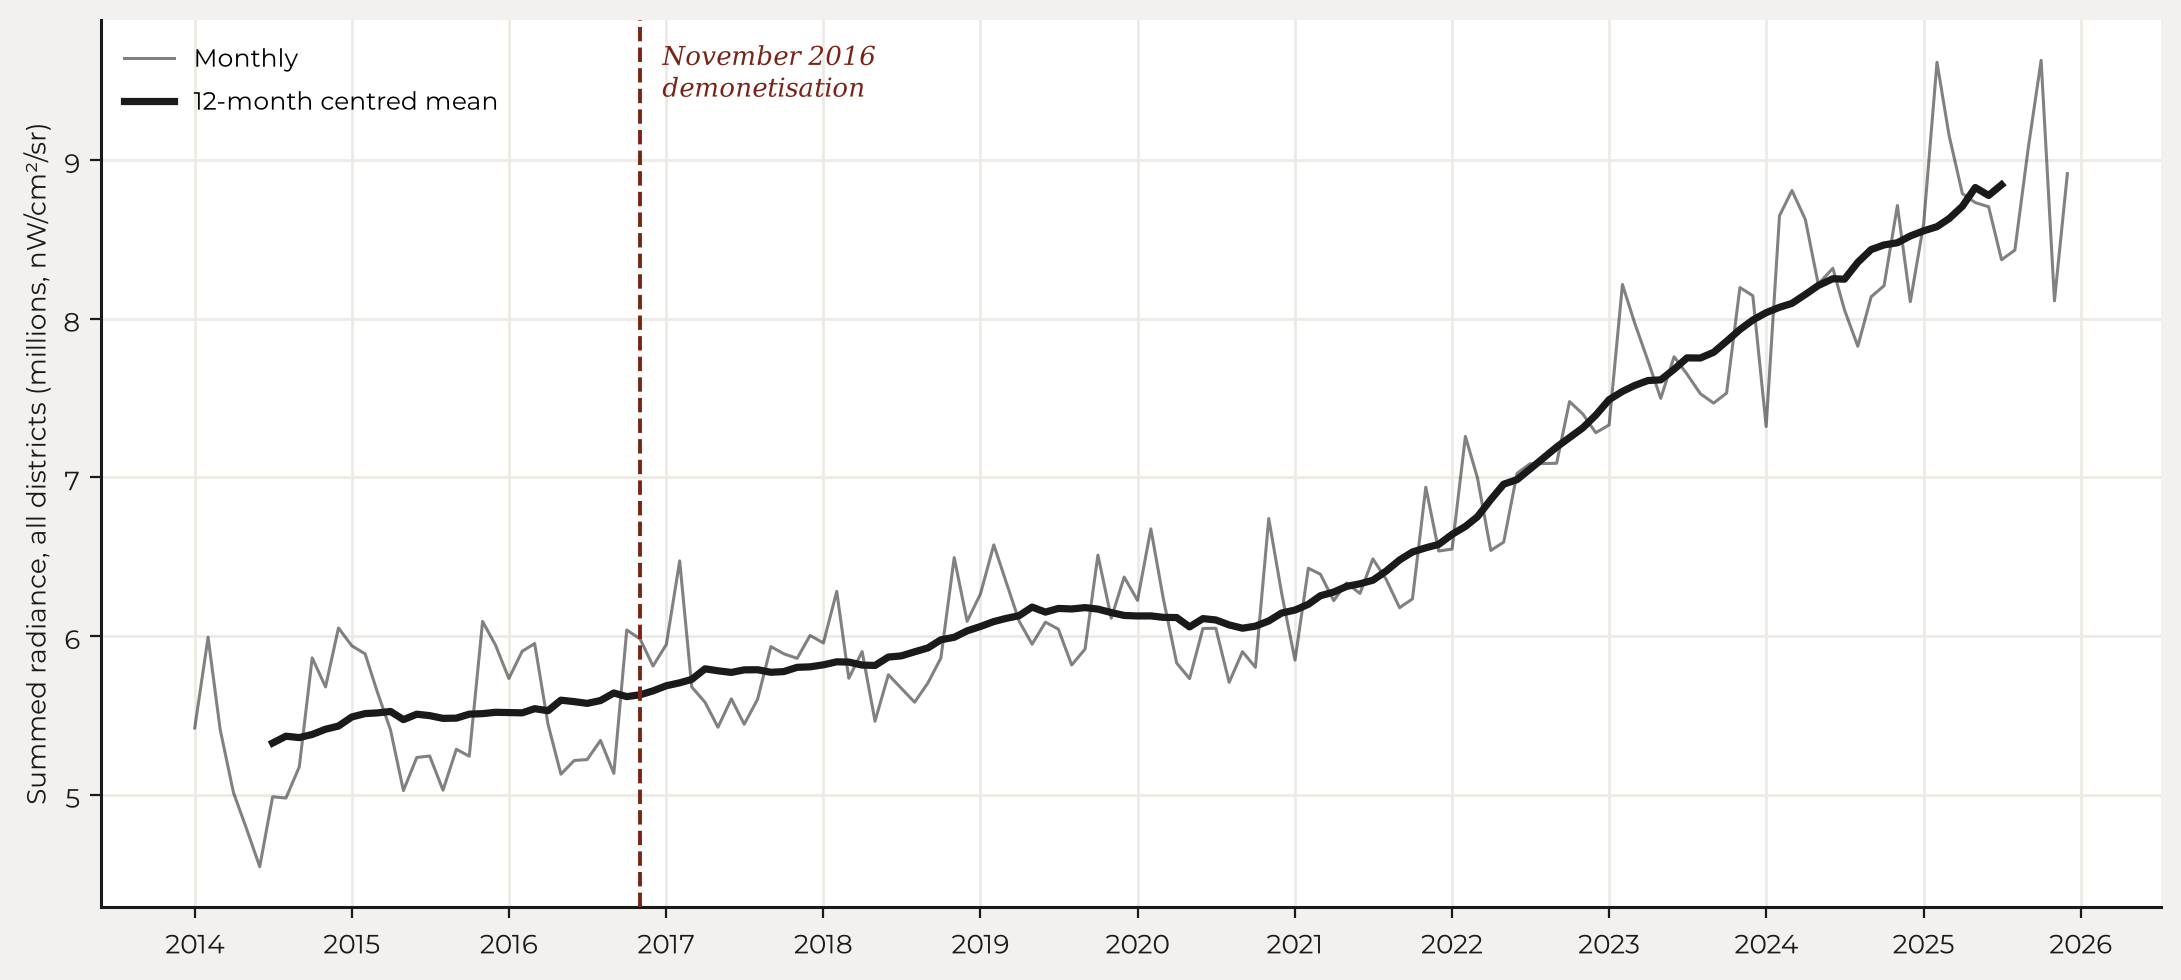
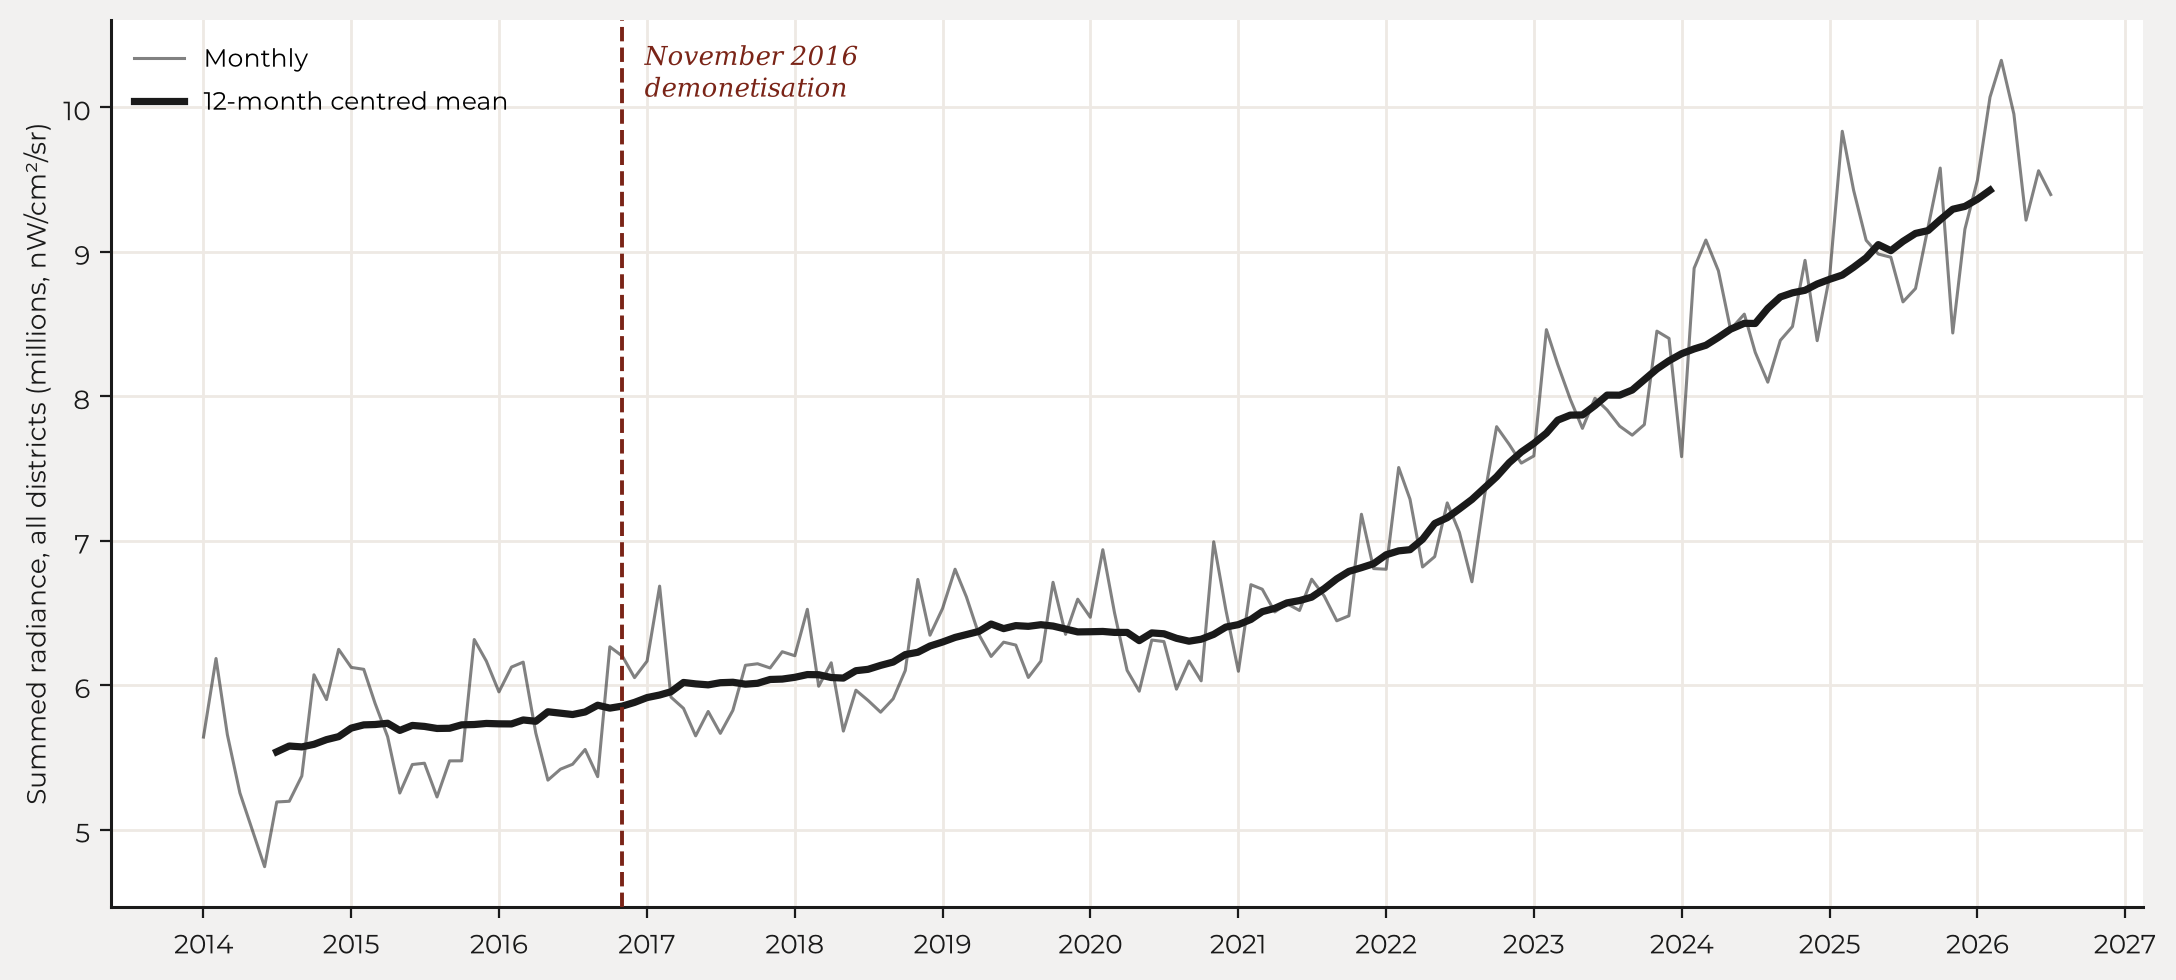
updated figures with new ntl csv

diff --git a/blog/article_current.html b/blog/article_current.html
@@ -20,11 +20,11 @@
 
 <p>The map below shows what this looks like across the country in 2021: building volume per square metre of footprint, district by district, which is a rough measure of how tall a district builds rather than how much of it is built on. The dense corridors are visible without any further processing.</p>
 
-<center><img src="figures/fig15c_district_coverage_bv_density.png" alt="Building density by district" width="700"><br><i>Building volume per square metre of footprint, 2021, for 640 of the 641 districts in the dataset.</i></center>
+<center><img src="figures/fig15c_district_coverage_bv_density.png" alt="Building density by district" width="700"><br><i>Building volume per square metre of footprint, 2021, for all 641 districts in the dataset.</i></center>
 
 <p>Construction is slow and cumulative, so this data moves gradually. It is less a snapshot of current activity, rather it is a record of investment: in housing, in industry, in commerce. We present the underlying data as published, without a separate cleaning pass.</p>
 
-<p>That means the oddities in it are visible too. Ordinarily, one should expect a measure like this to weakly rise monotonically, but we observe an across-the-board decline in building volume in 2022. Some districts show a precipitous single-year collapse in 2018: Kinnaur's building volume falls by almost 50% and Pithoragarh's by 20%, neither of which recovers. Others decline continuously over the whole period. Building volume is computed as the product of surface area and building height, the latter of which has a hard cap of 100m, cutting off taller structures. We are working on a bias correction, using known building heights as anchors for the distribution.</p>
+<p>That means the oddities in it are visible too. Ordinarily, one should expect a measure like this to weakly rise monotonically, but we observe an across-the-board decline in building volume in 2022. Some districts show a precipitous single-year collapse in 2018: Kinnaur's building volume falls by almost 50% and Pithoragarh's by 20%, neither of which recovers. Others decline continuously over the whole period. Building volume is computed as the product of surface area and building height, the latter of which has a hard cap of 100m, cutting off taller structures. We are working on a bias correction mechanism, using known building heights as anchors for the distribution.</p>
 
 <center><img src="figures/fig08b_bv_anomalies.png" alt="Anomalies in the building volume series" width="700"><br><i>Building volume for Pithoragarh and Kinnaur against the national total, indexed to 2016 = 100. The shaded years are 2018 and 2022; 94% of districts decline in 2022.</i></center>
 
@@ -40,7 +40,7 @@
 
 <p>The same districts and the same year as the building map earlier, now seen in radiance rather than in concrete. The bright regions match well, but not exactly, with the densely built ones&mdash;the Gangetic plain and the southern coasts&mdash;light up more than their building stock alone would suggest, and parts of the interior less. That gap is the whole reason for carrying both measures.</p>
 
-<center><img src="figures/fig15b_district_coverage_ntl.png" alt="Nighttime lights by district" width="700"><br><i>Mean radiance per pixel, 2021, for the same districts. Note that the scale runs the other way from the map above: here dark is dim, not dense.</i></center>
+<center><img src="figures/fig15b_district_coverage_ntl.png" alt="Nighttime lights by district" width="700"><br><i>Mean radiance per pixel, 2021, for 640 of the same 641 districts. Note that the scale runs the other way from the map above: here dark is dim, not dense.</i></center>
 
 <p>Lights respond much more quickly than buildings. They brighten as neighbourhoods become more active and dim when activity slows. If buildings measure accumulated capital, nighttime lights measure an economy in motion. One caveat: as household and street lighting shifts to LEDs, measured radiance can fall even where activity is rising, because LEDs emit less in the band VIIRS is sensitive to (Kyba et al., 2017). A dimmer district is not necessarily a slower one. Gibson, Olivia and Boe-Gibson (2020) survey this and the other traps in the economic use of nighttime lights, and are worth reading before treating radiance as a direct indicator of output.</p>
 
@@ -50,7 +50,7 @@
 
 <h3>Reading them together</h3>
 
-<p>Each dataset answers a straightforward question on its own. Together they answer a more useful one. Where building volume and lights are both climbing, a district is likely in the midst of genuine, sustained growth. If construction is rising but lights remain flat, in indicates new capacity  being built ahead of actual use: possibly the shrewd foresight of planners anticipating development, or, at the other extreme, a ghost town left behind by overestimating demand.</p>
+<p>Each dataset answers a straightforward question on its own. Together they answer a more useful one. Where building volume and lights are both climbing, a district is likely in the midst of genuine, sustained growth. If construction is rising but lights remain flat, it indicates new capacity being built ahead of actual use: possibly the shrewd foresight of planners anticipating development, or, at the other extreme, a ghost town left behind by overestimating demand.</p>
 
 <p>Where lights rise with little new construction, existing capital might be used more intensively, rather than the district expanding outward. That points to constrained resources, limited confidence in long-term growth, or simply a choice to extract more from what is already there.</p>
 
@@ -60,15 +60,15 @@
 
 <center><img src="figures/fig04_disagreements_6panel.png" alt="The six districts where the two measures disagree most" width="700"><br><i>The six largest disagreements between the two measures, 2016-2023, each indexed to 2016. In every one, measured capital falls while activity brightens.</i></center>
 
-<p>Sorting every district on both axes gives nine combinations of rising, flat and falling volume and lights. The chart below shows the starkest district in each: Wayanad, where building volume and lights climbed together; Pithoragarh, where both fell; West Garo Hills, where construction ran ahead of measured activity; and so on through the remaining six.</p>
+<p>Sorting every district on both axes gives nine combinations of rising, flat and falling volume and lights, of which eight are occupied: no district builds while its lights dim. The chart below shows the starkest district in each: Wayanad, where building volume and lights climbed together; Pithoragarh, where both fell; Lucknow, where construction ran ahead of measured activity; and so on through the remaining five.</p>
 
-<center><img src="figures/fig01b_stark_grid_recomputed.png" alt="Building volume and lights trends for the starkest district in each of nine categories" width="700"><br><i>Building volume and nighttime lights, indexed to 2016, for the starkest district in each of the nine combinations.</i></center>
+<center><img src="figures/fig01b_stark_grid_recomputed.png" alt="Building volume and lights trends for the starkest district in each of eight categories" width="700"><br><i>Building volume and nighttime lights, indexed to 2016, for the starkest district in each of the eight occupied combinations.</i></center>
 
 <h3>Getting the data</h3>
 
 <p>We built this dataset to make these kinds of questions easier to ask, at a scale India's official statistics don't reach: the district, updated annually or monthly instead of once a decade. Beyer, Chhabra, Galdo and Rama (2018) showed what that resolution buys: working with cleaned VIIRS at the district level, they traced the effect of demonetisation on Indian districts month by month, an episode that state-level annual data would have largely smoothed away. Seth, Singh and Uday (2026) go finer still: working with building volume inside urban local body boundaries in Karnataka, and find that the summed building volume of a body explains much of the variation in property tax demand, a satellite measure becoming a way for municipalities to verify what they report about themselves. Our dataset should be useful to researchers working on regional inequality, urbanisation and the geography of growth, and to anyone in government trying to keep track of places where the usual numbers arrive too late (if at all).</p>
 
-<p>Economic development leaves visible traces on the landscape long before it reaches the statistical system. Our hope is that this dataset makes them usable. The processing pipeline is public and runs end to end in two Colab notebooks, one for <a href="https://colab.research.google.com/github/xKDR/India-Built-and-Lit/blob/main/building_volume.ipynb">building volume</a> and one for <a href="https://colab.research.google.com/github/xKDR/India-Built-and-Lit/blob/main/nighttime_lights.ipynb">nighttime lights</a>, with the cleaned outputs also available as CSVs (<a href="https://xkdr.github.io/India-Built-and-Lit/data/bv_annual.csv">BV</a>, <a href="https://xkdr.github.io/India-Built-and-Lit/data/viirs_monthly.csv">NL</a>, and <a href="https://xkdr.github.io/India-Built-and-Lit/data/districts_simplified.geojson">district bounds</a>). Swap the geography to point it at a different country or a different administrative boundary, and the pipelines will cooperate.</p>
+<p>Economic development leaves visible traces on the landscape long before it reaches official databases. Our hope is that this dataset makes them usable. The data is available as CSVs (<a href="https://xkdr.github.io/India-Built-and-Lit/data/bv_annual.csv">BV</a>, <a href="https://xkdr.github.io/India-Built-and-Lit/data/viirs_monthly.csv">NL</a>, and <a href="https://xkdr.github.io/India-Built-and-Lit/data/districts_simplified.geojson">district bounds</a>). The processing pipeline is public and runs end to end in two Colab notebooks, one for <a href="https://colab.research.google.com/github/xKDR/India-Built-and-Lit/blob/main/building_volume.ipynb">building volume</a> and one for <a href="https://colab.research.google.com/github/xKDR/India-Built-and-Lit/blob/main/nighttime_lights.ipynb">nighttime lights</a>. Note that the provided nightlights CSV was computed at native resolution, while the notebook downsamples to remain within colab's usage limits. Swap the geography to point it at a different country or a different administrative boundary, and the pipelines will cooperate.</p>
 
 <h3>Bibliography</h3>
 

diff --git a/blog/article_current.md b/blog/article_current.md
@@ -20,11 +20,11 @@ The map below shows what this looks like across the country in 2021: building vo
 
 ![Building density by district](figures/fig15c_district_coverage_bv_density.png)
 
-*Building volume per square metre of footprint, 2021, for 640 of the 641 districts in the dataset.*
+*Building volume per square metre of footprint, 2021, for all 641 districts in the dataset.*
 
 Construction is slow and cumulative, so this data moves gradually. It is less a snapshot of current activity, rather it is a record of investment: in housing, in industry, in commerce. We present the underlying data as published, without a separate cleaning pass.
 
-That means the oddities in it are visible too. Ordinarily, one should expect a measure like this to weakly rise monotonically, but we observe an across-the-board decline in building volume in 2022. Some districts show a precipitous single-year collapse in 2018: Kinnaur's building volume falls by almost 50% and Pithoragarh's by 20%, neither of which recovers. Others decline continuously over the whole period. Building volume is computed as the product of surface area and building height, the latter of which has a hard cap of 100m, cutting off taller structures. We are working on a bias correction, using known building heights as anchors for the distribution.
+That means the oddities in it are visible too. Ordinarily, one should expect a measure like this to weakly rise monotonically, but we observe an across-the-board decline in building volume in 2022. Some districts show a precipitous single-year collapse in 2018: Kinnaur's building volume falls by almost 50% and Pithoragarh's by 20%, neither of which recovers. Others decline continuously over the whole period. Building volume is computed as the product of surface area and building height, the latter of which has a hard cap of 100m, cutting off taller structures. We are working on a bias correction mechanism, using known building heights as anchors for the distribution.
 
 ![Anomalies in the building volume series](figures/fig08b_bv_anomalies.png)
 
@@ -46,7 +46,7 @@ The same districts and the same year as the building map earlier, now seen in ra
 
 ![Nighttime lights by district](figures/fig15b_district_coverage_ntl.png)
 
-*Mean radiance per pixel, 2021, for the same districts. Note that the scale runs the other way from the map above: here dark is dim, not dense.*
+*Mean radiance per pixel, 2021, for 640 of the same 641 districts. Note that the scale runs the other way from the map above: here dark is dim, not dense.*
 
 Lights respond much more quickly than buildings. They brighten as neighbourhoods become more active and dim when activity slows. If buildings measure accumulated capital, nighttime lights measure an economy in motion. One caveat: as household and street lighting shifts to LEDs, measured radiance can fall even where activity is rising, because LEDs emit less in the band VIIRS is sensitive to (Kyba et al., 2017). A dimmer district is not necessarily a slower one. Gibson, Olivia and Boe-Gibson (2020) survey this and the other traps in the economic use of nighttime lights, and are worth reading before treating radiance as a direct indicator of output.
 
@@ -58,7 +58,7 @@ The difference in tempo is easiest to see when the two are drawn on the same axi
 
 ### Reading them together
 
-Each dataset answers a straightforward question on its own. Together they answer a more useful one. Where building volume and lights are both climbing, a district is likely in the midst of genuine, sustained growth. If construction is rising but lights remain flat, in indicates new capacity  being built ahead of actual use: possibly the shrewd foresight of planners anticipating development, or, at the other extreme, a ghost town left behind by overestimating demand.
+Each dataset answers a straightforward question on its own. Together they answer a more useful one. Where building volume and lights are both climbing, a district is likely in the midst of genuine, sustained growth. If construction is rising but lights remain flat, it indicates new capacity being built ahead of actual use: possibly the shrewd foresight of planners anticipating development, or, at the other extreme, a ghost town left behind by overestimating demand.
 
 Where lights rise with little new construction, existing capital might be used more intensively, rather than the district expanding outward. That points to constrained resources, limited confidence in long-term growth, or simply a choice to extract more from what is already there.
 
@@ -72,17 +72,17 @@ Revisiting the six districts above in more detail, we see measured building volu
 
 *The six largest disagreements between the two measures, 2016-2023, each indexed to 2016. In every one, measured capital falls while activity brightens.*
 
-Sorting every district on both axes gives nine combinations of rising, flat and falling volume and lights. The chart below shows the starkest district in each: Wayanad, where building volume and lights climbed together; Pithoragarh, where both fell; West Garo Hills, where construction ran ahead of measured activity; and so on through the remaining six.
+Sorting every district on both axes gives nine combinations of rising, flat and falling volume and lights, of which eight are occupied: no district builds while its lights dim. The chart below shows the starkest district in each: Wayanad, where building volume and lights climbed together; Pithoragarh, where both fell; Lucknow, where construction ran ahead of measured activity; and so on through the remaining five.
 
-![Building volume and lights trends for the starkest district in each of nine categories](figures/fig01b_stark_grid_recomputed.png)
+![Building volume and lights trends for the starkest district in each of eight categories](figures/fig01b_stark_grid_recomputed.png)
 
-*Building volume and nighttime lights, indexed to 2016, for the starkest district in each of the nine combinations.*
+*Building volume and nighttime lights, indexed to 2016, for the starkest district in each of the eight occupied combinations.*
 
 ### Getting the data
 
 We built this dataset to make these kinds of questions easier to ask, at a scale India's official statistics don't reach: the district, updated annually or monthly instead of once a decade. Beyer, Chhabra, Galdo and Rama (2018) showed what that resolution buys: working with cleaned VIIRS at the district level, they traced the effect of demonetisation on Indian districts month by month, an episode that state-level annual data would have largely smoothed away. Seth, Singh and Uday (2026) go finer still: working with building volume inside urban local body boundaries in Karnataka, and find that the summed building volume of a body explains much of the variation in property tax demand, a satellite measure becoming a way for municipalities to verify what they report about themselves. Our dataset should be useful to researchers working on regional inequality, urbanisation and the geography of growth, and to anyone in government trying to keep track of places where the usual numbers arrive too late (if at all).
 
-Economic development leaves visible traces on the landscape long before it reaches the statistical system. Our hope is that this dataset makes them usable. The processing pipeline is public and runs end to end in two Colab notebooks, one for [building volume](https://colab.research.google.com/github/xKDR/India-Built-and-Lit/blob/main/building_volume.ipynb) and one for [nighttime lights](https://colab.research.google.com/github/xKDR/India-Built-and-Lit/blob/main/nighttime_lights.ipynb), with the cleaned outputs also available as CSVs ([BV](https://xkdr.github.io/India-Built-and-Lit/data/bv_annual.csv), [NL](https://xkdr.github.io/India-Built-and-Lit/data/viirs_monthly.csv), and [district bounds](https://xkdr.github.io/India-Built-and-Lit/data/districts_simplified.geojson)). Swap the geography to point it at a different country or a different administrative boundary, and the pipelines will cooperate.
+Economic development leaves visible traces on the landscape long before it reaches official databases. Our hope is that this dataset makes them usable. The data is available as CSVs ([BV](https://xkdr.github.io/India-Built-and-Lit/data/bv_annual.csv), [NL](https://xkdr.github.io/India-Built-and-Lit/data/viirs_monthly.csv), and [district bounds](https://xkdr.github.io/India-Built-and-Lit/data/districts_simplified.geojson)). The processing pipeline is public and runs end to end in two Colab notebooks, one for [building volume](https://colab.research.google.com/github/xKDR/India-Built-and-Lit/blob/main/building_volume.ipynb) and one for [nighttime lights](https://colab.research.google.com/github/xKDR/India-Built-and-Lit/blob/main/nighttime_lights.ipynb). Note that the provided nightlights CSV was computed at native resolution, while the notebook downsamples to remain within colab's usage limits. Swap the geography to point it at a different country or a different administrative boundary, and the pipelines will cooperate.
 
 ### Bibliography
 
